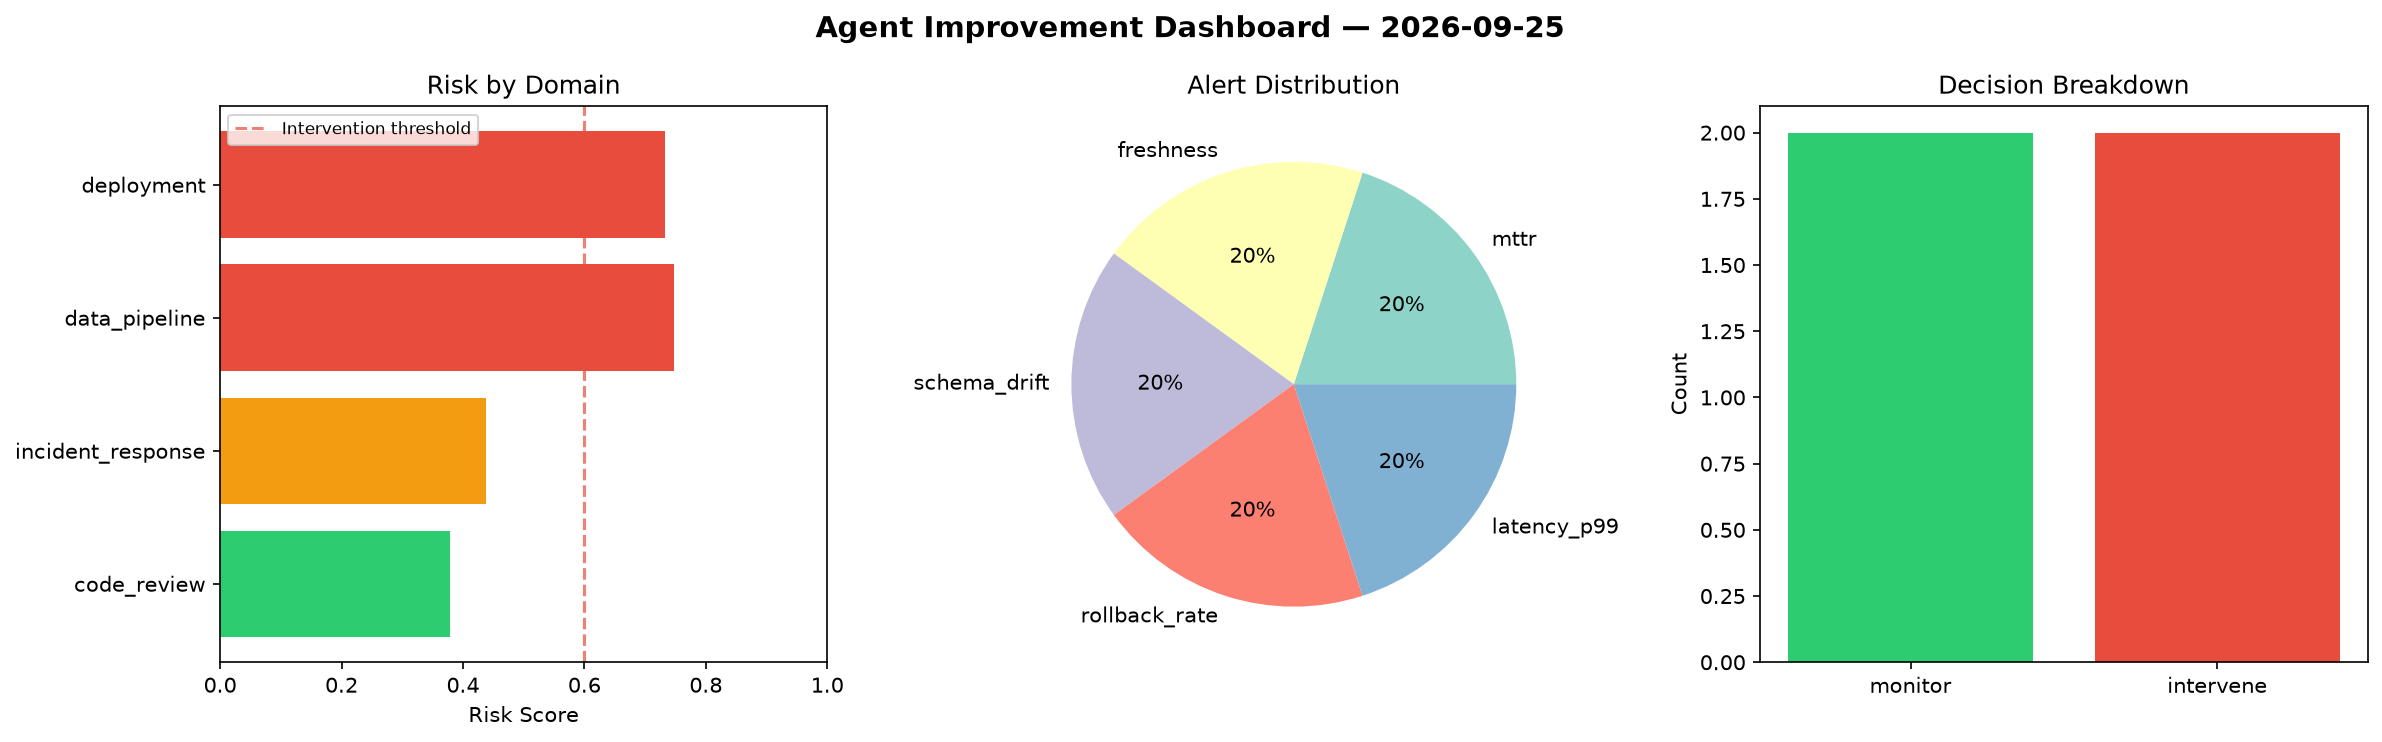
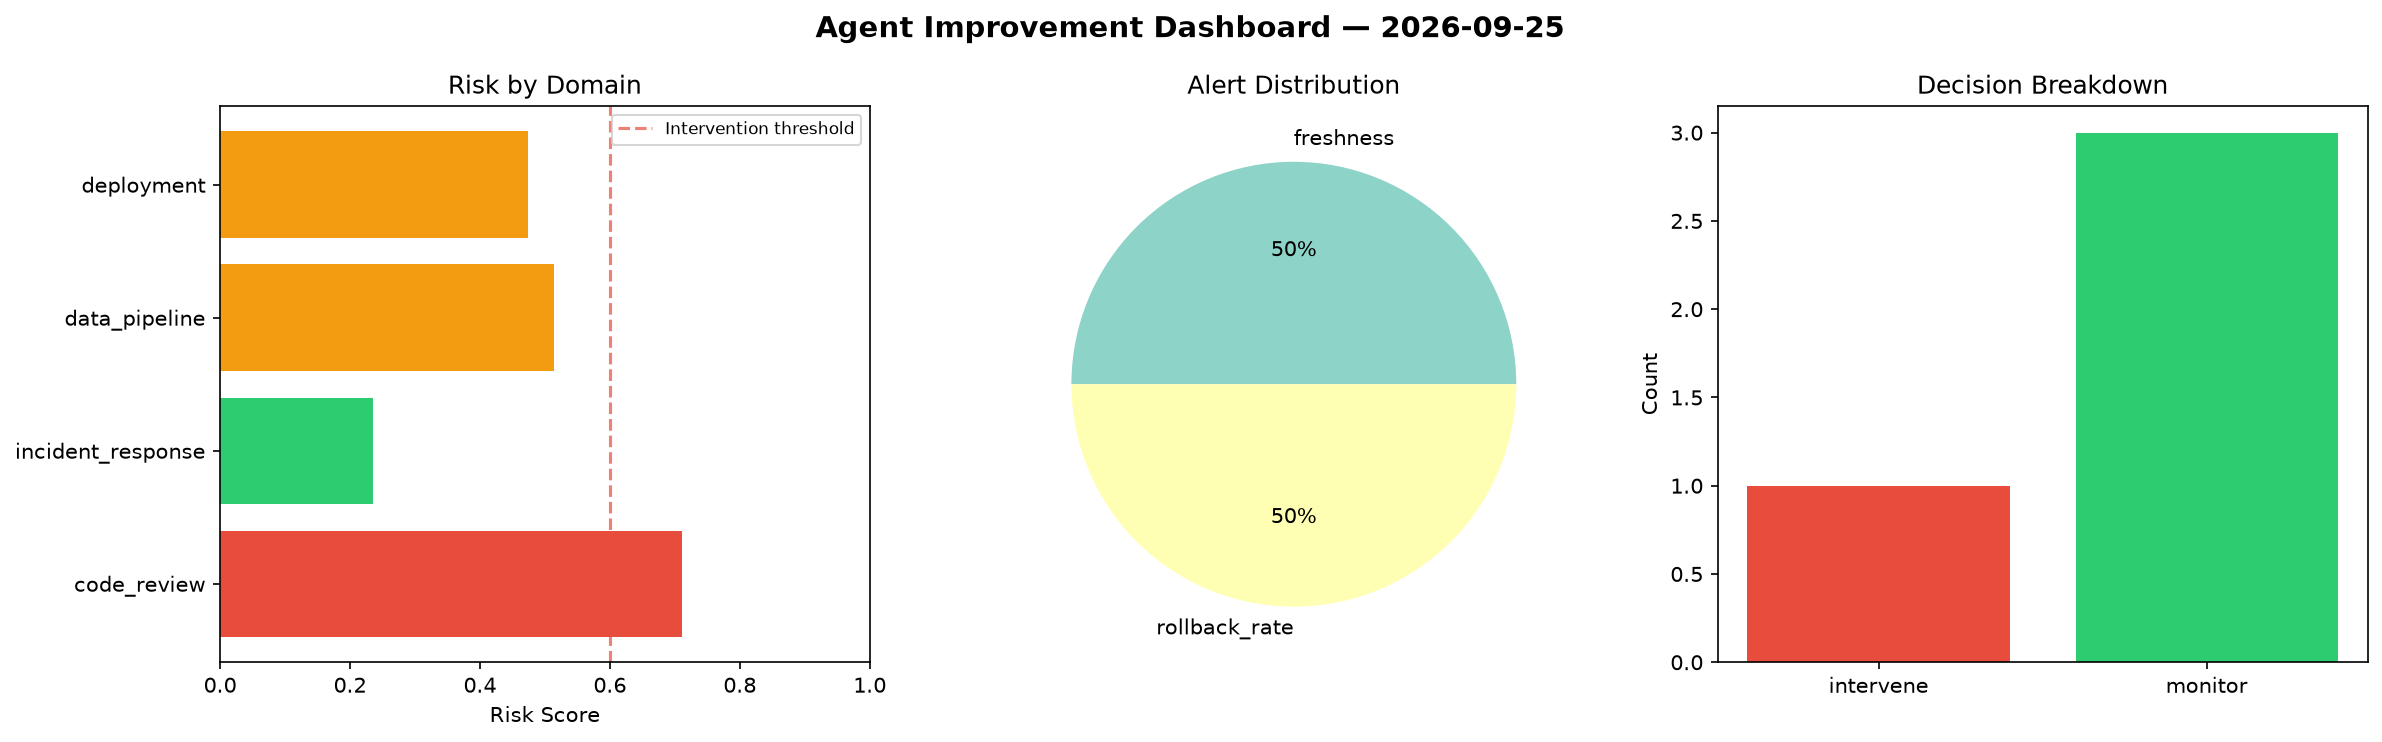
agent-improvement: daily cycle 2026-09-25T13:46

diff --git a/logs/2026-09-25.md b/logs/2026-09-25.md
@@ -1,6 +1,6 @@
 # Agent Improvement Report — 2026-09-25
 
-**Cycle ID:** `c8132ae4` | **Avg Risk:** 0.5748 | **Interventions:** 2/4
+**Cycle ID:** `9bd2f044` | **Avg Risk:** 0.4832 | **Interventions:** 1/4
 
 ![Dashboard](2026-09-25_dashboard.png)
 
@@ -10,18 +10,18 @@
 
 | Domain | Risk Score | Decision | Alerts |
 |--------|-----------|----------|--------|
-| code_review | 0.3794 | monitor | none |
-| incident_response | 0.4383 | monitor | mttr |
-| data_pipeline | 0.7479 | intervene | freshness, schema_drift |
-| deployment | 0.7334 | intervene | rollback_rate, latency_p99 |
+| code_review | 0.7108 | intervene | none |
+| incident_response | 0.2347 | monitor | none |
+| data_pipeline | 0.5136 | monitor | freshness |
+| deployment | 0.4739 | monitor | rollback_rate |
 
 ## Delta vs Yesterday
 
 | Domain | Today | Yesterday | Change |
 |--------|-------|-----------|--------|
-| code_review | 0.3794 | 0.6406 | 📉 -40.8% |
-| incident_response | 0.4383 | 0.4174 | 📈 5.0% |
-| data_pipeline | 0.7479 | 0.3921 | 📈 90.7% |
-| deployment | 0.7334 | 0.5067 | 📈 44.7% |
+| code_review | 0.7108 | 0.6406 | 📈 11.0% |
+| incident_response | 0.2347 | 0.4174 | 📉 -43.8% |
+| data_pipeline | 0.5136 | 0.3921 | 📈 31.0% |
+| deployment | 0.4739 | 0.5067 | 📉 -6.5% |
 
-**Refinement:** `{'adjustment': 'tighten_thresholds', 'trend': 'degrading', 'window': 4}`
+**Refinement:** `{'adjustment': 'maintain', 'trend': 'improving', 'window': 4}`
